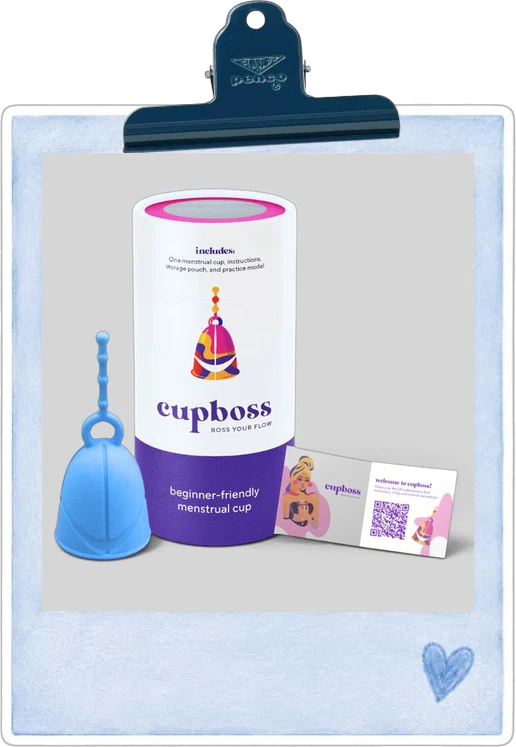
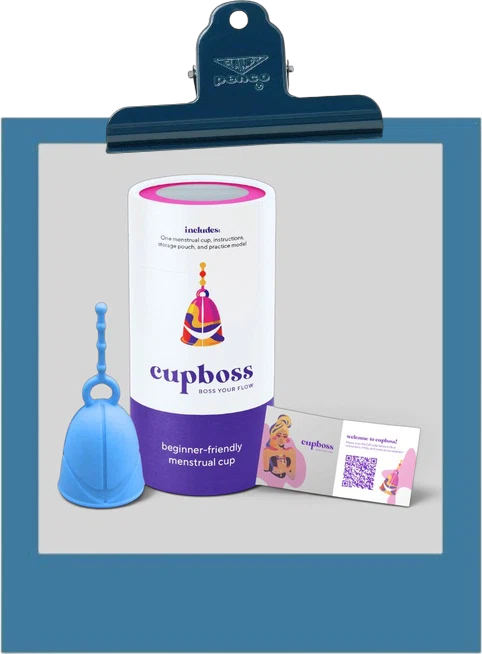
Board: solid blue clip polaroid for CupBoss

diff --git a/css/board.css b/css/board.css
@@ -527,7 +527,7 @@ a.item.admit:hover { box-shadow: none; }
 .framed--star .caption { bottom: 6%; left: 18%; }
 .framed--plaid .caption { bottom: 7%; padding: .05em .4em; left: 50%; right: auto; transform: translateX(-50%); background: #fdfdfb; box-shadow: 0 1px 2px rgba(0,0,0,.15); }
 .framed--film .caption { bottom: -.7em; left: 50%; right: auto; padding: .1em .5em; background: #fdfdfb; box-shadow: var(--shadow); transform: translateX(-50%) rotate(-3deg); }
-.framed--clip .caption { bottom: 6.5%; right: 14%; }
+.framed--clip .caption { bottom: 4.5%; color: #fdfaf3; }
 .framed .pin--top, .framed .tape--top { z-index: 2; }
 
 .print { padding: .75em; }

diff --git a/index.html b/index.html
@@ -99,7 +99,7 @@
     </a>
 
     <a class="item framed framed--clip product" href="projects/cupboss/" style="--x: 88.5%; --y: 50.5%; --w: 20%; --r: 1.5deg; --s: 1.268;">
-      <img src="assets/img/frame-cupboss.webp" width="516" height="747" alt="CupBoss: a blue menstrual cup next to its purple and white CupBoss packaging">
+      <img src="assets/img/frame-cupboss.webp" width="482" height="654" alt="CupBoss: a blue menstrual cup next to its purple and white CupBoss packaging">
       <span class="caption">CupBoss</span>
     </a>
 
